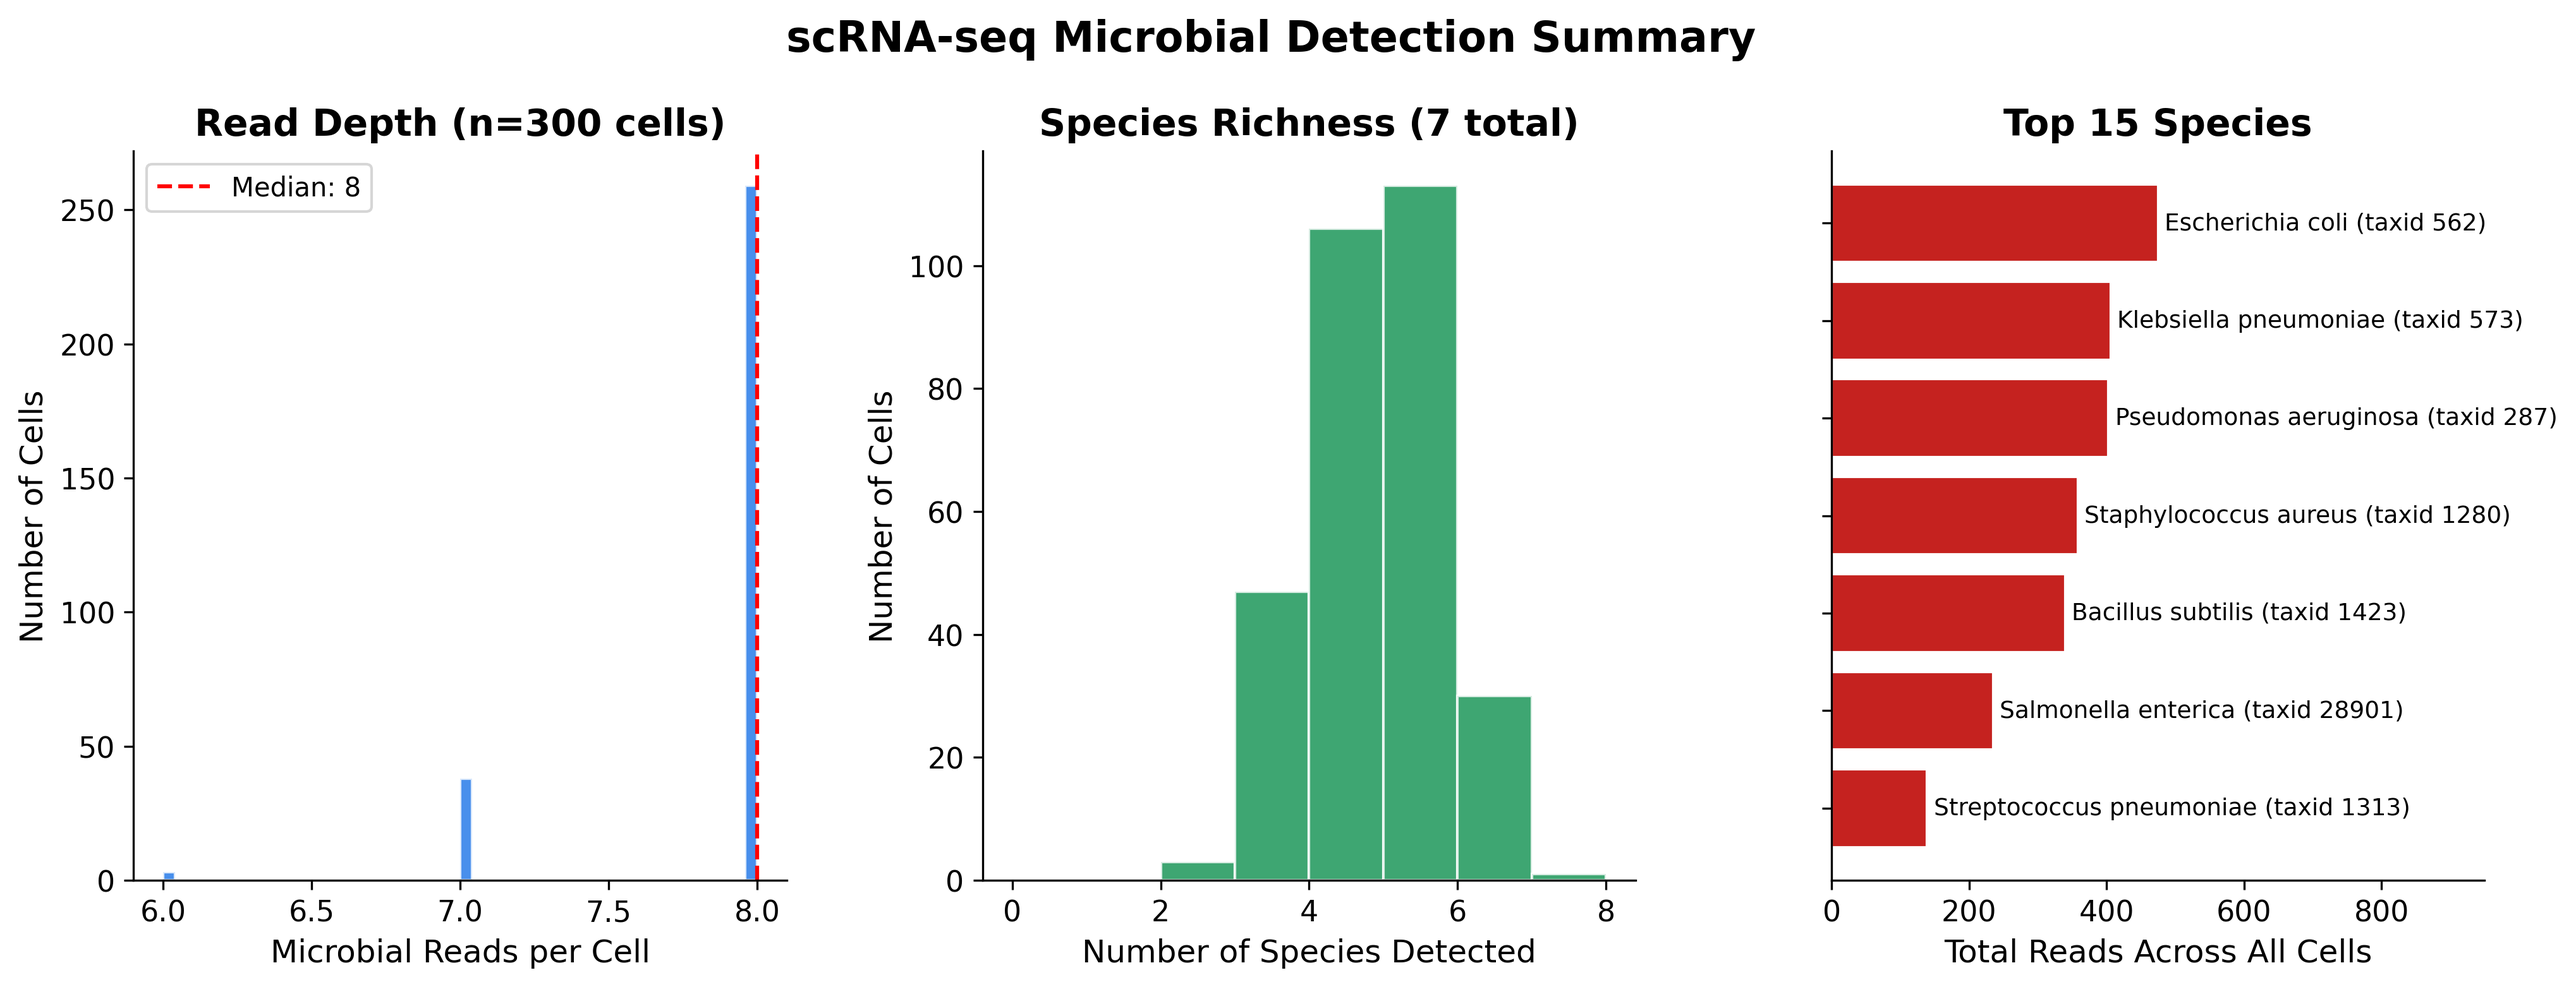
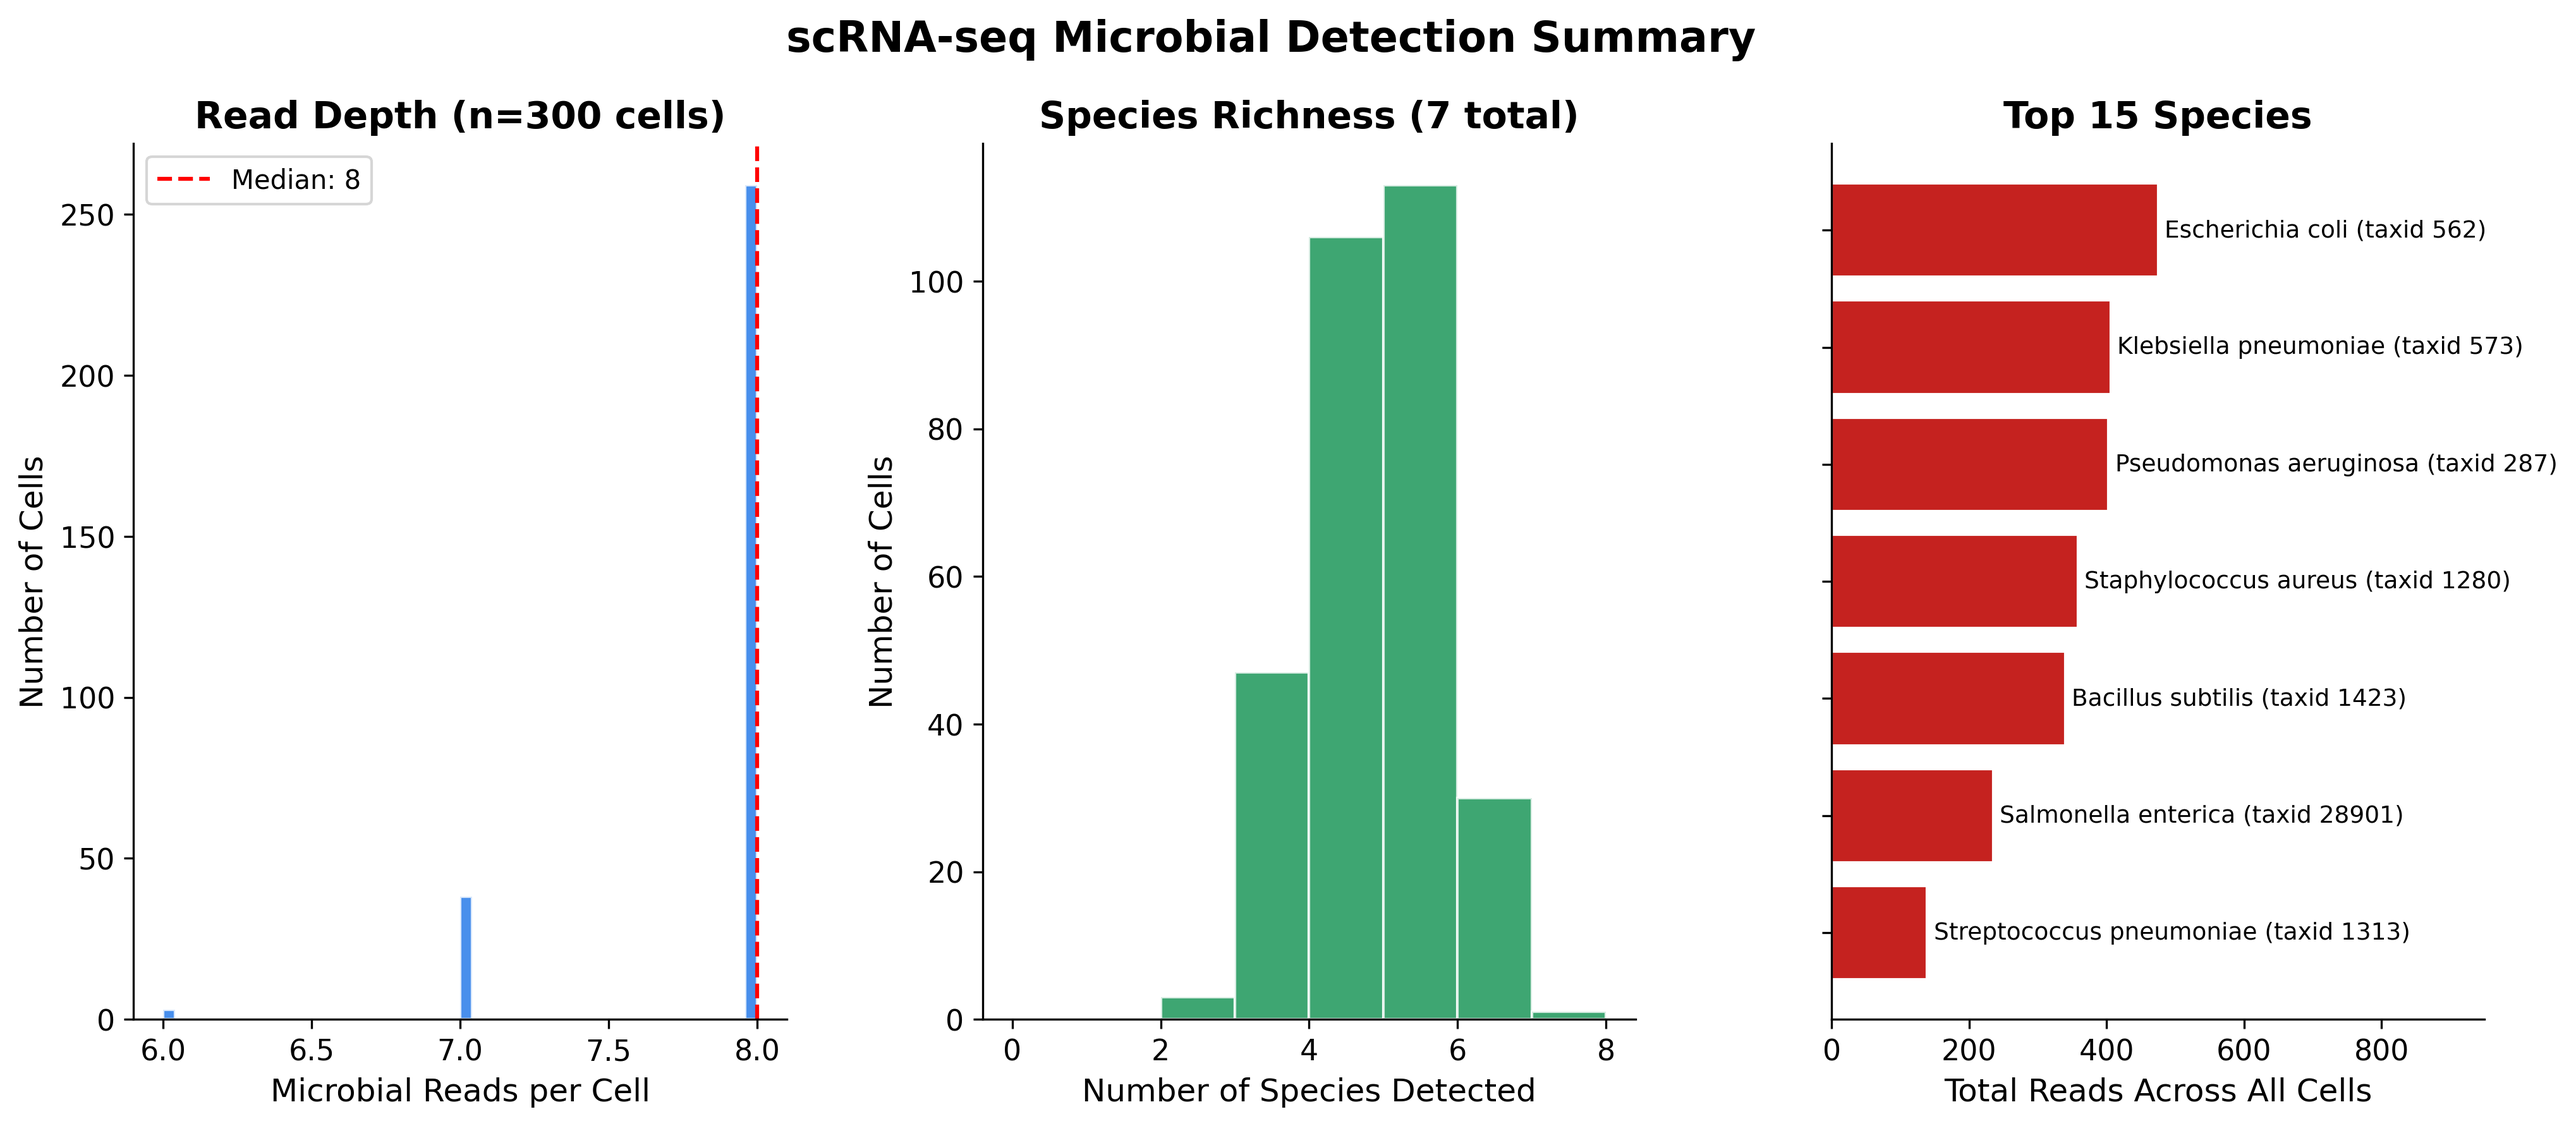
20260312 0250 commit

diff --git a/celljanus/visualize.py b/celljanus/visualize.py
@@ -566,7 +566,7 @@ def plot_cell_microbe_summary(
     total_cells = len(matrix_df)
     total_species = len(matrix_df.columns)
 
-    fig = plt.figure(figsize=(16, 5))
+    fig = plt.figure(figsize=(16, 6))
     gs = fig.add_gridspec(1, 3, wspace=0.3)
 
     # Panel 1: Reads per cell distribution
@@ -634,8 +634,8 @@ def plot_cell_microbe_summary(
     else:
         ax3.set_xlim(right=x_max * 2.0)  # 2x margin for linear scale
 
-    fig.suptitle(title, fontsize=16, fontweight="bold", y=0.98)
-    fig.subplots_adjust(top=0.92)
+    fig.suptitle(title, fontsize=16, fontweight="bold", y=0.99)
+    fig.subplots_adjust(top=0.88)
 
     return _save(fig, output_path, dpi=cfg.dpi)
 
@@ -870,7 +870,7 @@ def plot_scrnaseq_dashboard(
     richness = (matrix_df > 0).sum(axis=1)
 
     metrics = [
-        ("Cells With Microbe (passing --min-reads)", f"{total_cells:,}"),
+        ("Cells With Microbe", f"{total_cells:,}"),
         ("Species Detected", f"{total_species}"),
         (
             "Total Microbial Reads",
@@ -896,6 +896,18 @@ def plot_scrnaseq_dashboard(
         ha="center",
         va="top",
     )
+    ax4.text(
+        0.5,
+        y_pos,
+        "(passing --min-reads filter)",
+        transform=ax4.transAxes,
+        fontsize=9,
+        ha="center",
+        va="top",
+        color="#666666",
+        style="italic",
+    )
+    y_pos -= 0.08
     for label, value in metrics:
         ax4.text(
             0.15, y_pos, label, transform=ax4.transAxes, fontsize=12, va="top", fontweight="medium"

diff --git a/celljanus/cli.py b/celljanus/cli.py
@@ -420,14 +420,19 @@ def scrnaseq_cmd(
     threads,
 ):
     """Run scRNA-seq microbial classification with per-cell abundance tracking."""
+    import time
+
     from celljanus.scrnaseq import (
         BarcodeConfig,
         run_scrnaseq_classification,
         detect_wsl2,
         wsl2_io_warning,
     )
+    from celljanus.utils import fmt_elapsed
     from celljanus.visualize import generate_scrnaseq_plots
     from rich.panel import Panel
+
+    t0 = time.perf_counter()
 
     cfg = CellJanusConfig(
         output_dir=Path(output_dir),
@@ -507,8 +512,14 @@ def scrnaseq_cmd(
     tbl.add_row("Mean reads / cell (filtered)", f"{summary['mean_reads_per_cell']:.1f}")
     log_renderable(tbl)
 
-    log.info(f"[green]Cell × species matrix: {result['matrix_path']}[/green]")
-    log.info(f"[green]Long-format table: {result['long_path']}[/green]")
+    elapsed = time.perf_counter() - t0
+    log_renderable(
+        Panel.fit(
+            f"[bold green]Pipeline completed in {fmt_elapsed(elapsed)}[/bold green]\n"
+            f"Output directory: {output_dir}",
+            border_style="green",
+        )
+    )
 
 
 # ======================================================================

diff --git a/CHANGELOG.md b/CHANGELOG.md
@@ -9,6 +9,16 @@ and this project adheres to [Semantic Versioning](https://semver.org/spec/v2.0.0
 
 ---
 
+## [dev] — 2026-03-12
+
+### Summary
+
+- **scRNA-seq run completion output improved**: now prints a final green completion panel with elapsed time and output directory, aligned with bulk mode style.
+- **System identification remains explicit in scRNA-seq mode**: startup output includes OS/CPU/RAM/Threads/MaxMem plus input/output panel for easier run auditing.
+- **`cell_microbe_summary` layout optimized**: adjusted figure size/top spacing to prevent main title overlap with subplot titles in PNG/PDF exports.
+- **`scrnaseq_dashboard` key-metrics readability improved**: long first metric label was shortened and the `--min-reads` note moved to a subtitle to avoid text/value overlap.
+---
+
 ## [0.2.2] — 2026-03-12
 
 ### Summary
